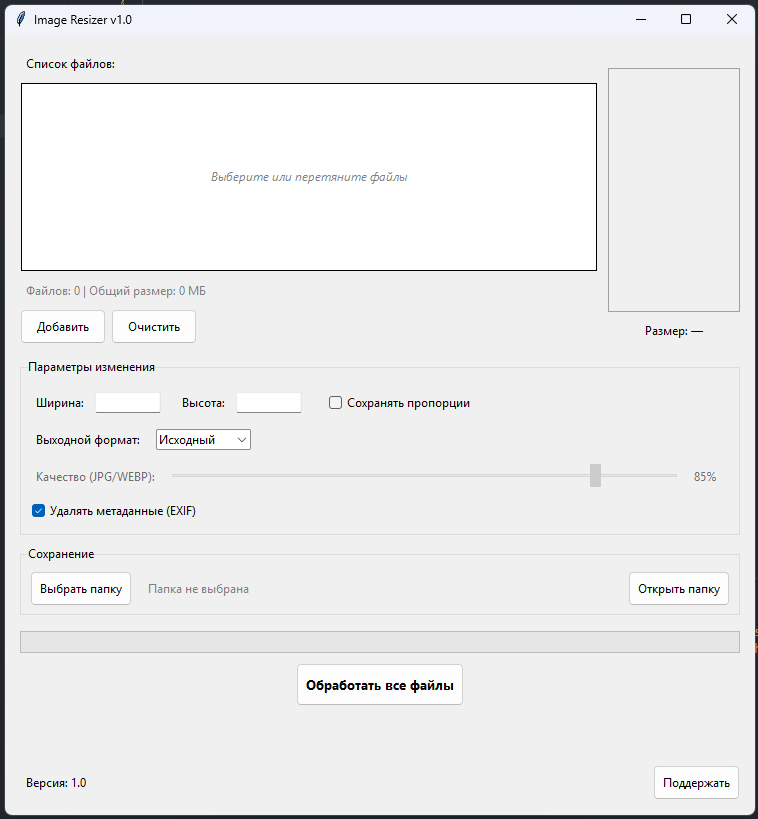
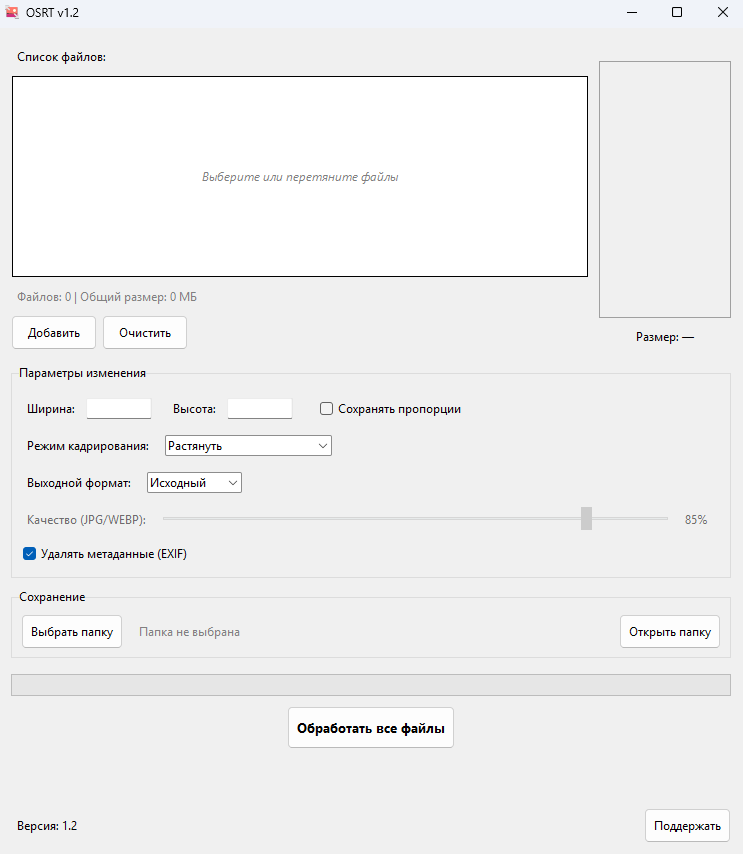
Change README

diff --git a/README.md b/README.md
@@ -1,4 +1,4 @@
-# OSRT - Open Source Resizing Tool
+# OSRT - Open Source Resizeng Tool
 
 Программа с графическим интерфейсом на Python для пакетного изменения размеров изображений, конвертации форматов и очистки EXIF-метаданных. Поддерживает перетаскивание файлов (Drag-and-Drop) и асинхронную обработку.
 
